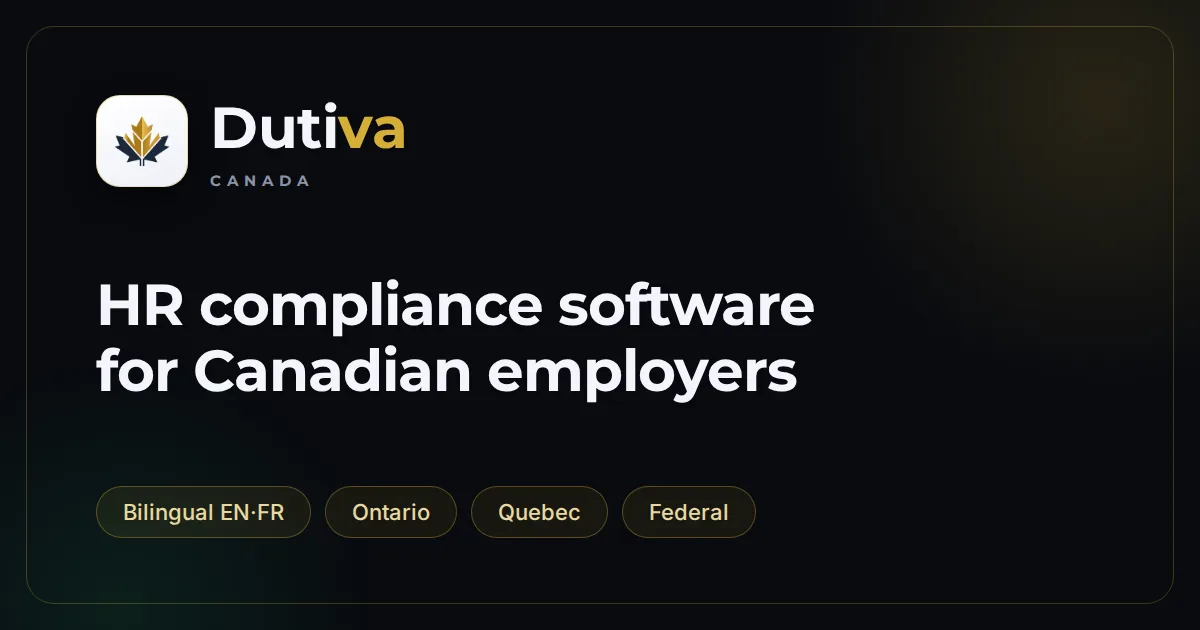
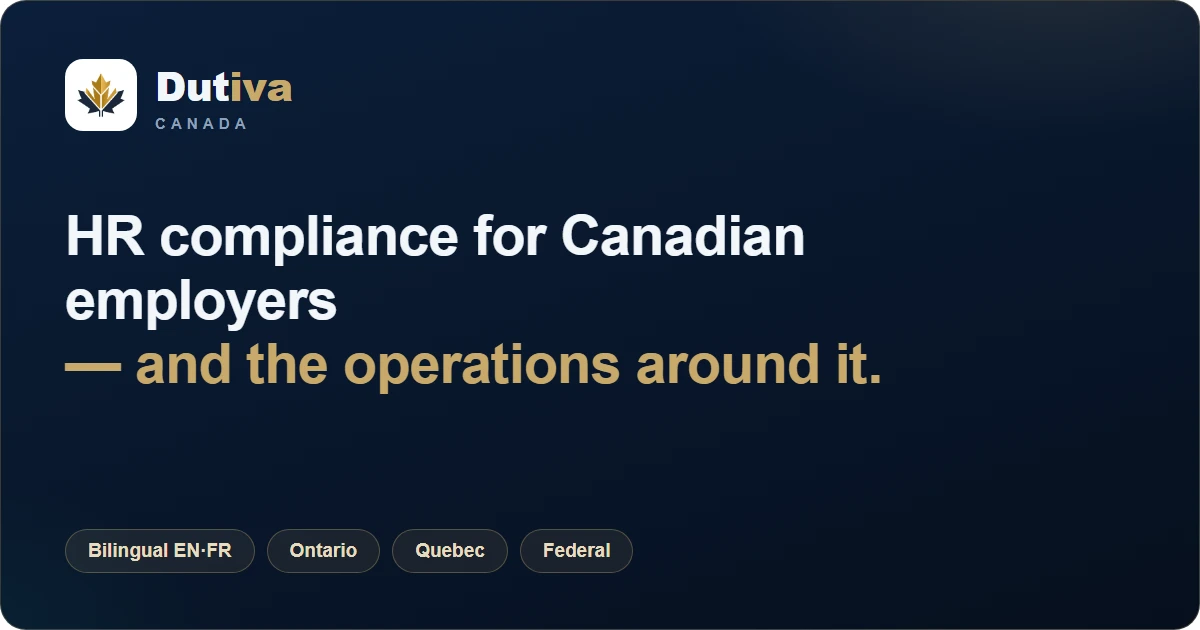
Widen OG share cards and add Specialists to the demo tour
The EN/FR og:images still sold the product as HR-only; regenerated both
to match the widened positioning (compliance core + operations around
it). Specialists joins the guided tour as the 12th stop so the external-
provider directory is surfaced alongside Finance, Governance, Planning.

Generated with [Devin](https://devin.ai)

diff --git a/src/features/app/demo/demoTourModel.ts b/src/features/app/demo/demoTourModel.ts
@@ -110,4 +110,13 @@ export const DEMO_TOUR_STOPS: readonly DemoTourStop[] = [
       'Tâches et calendrier pour l’ensemble de l’espace.',
     ),
   },
+  {
+    id: 'specialists',
+    pathSuffix: 'specialists',
+    title: bi('Specialists', 'Spécialistes'),
+    blurb: bi(
+      'Your external bench — lawyers, accountants, and providers, with engagement tracking.',
+      'Votre équipe externe — avocats, comptables et fournisseurs, avec suivi des engagements.',
+    ),
+  },
 ]
